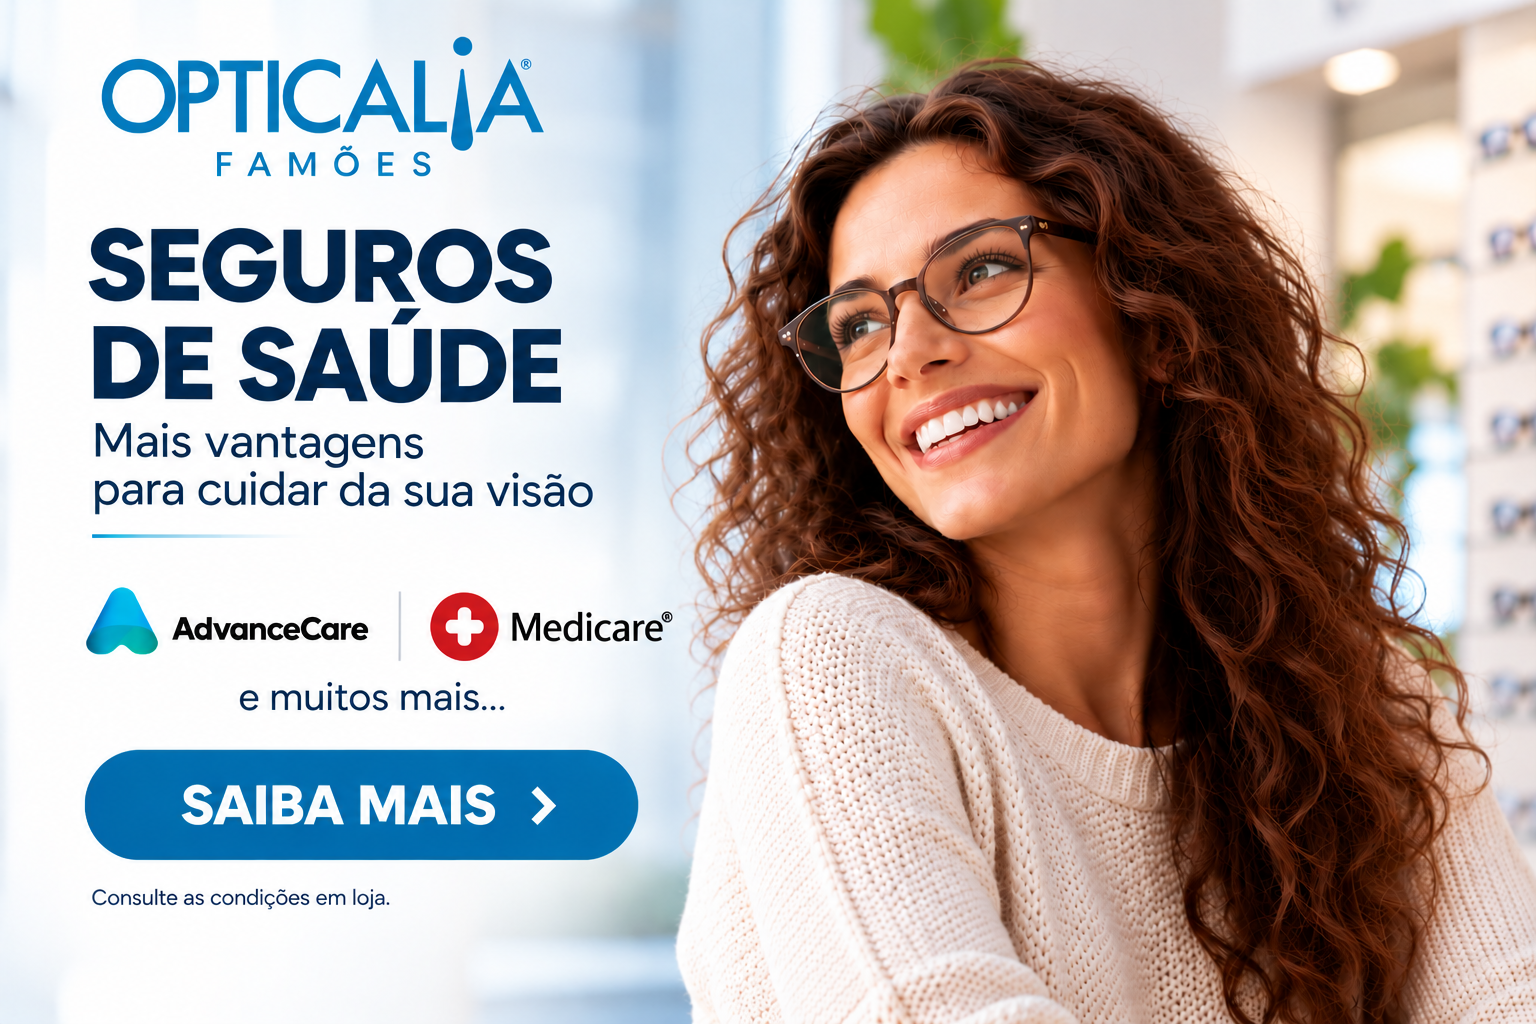
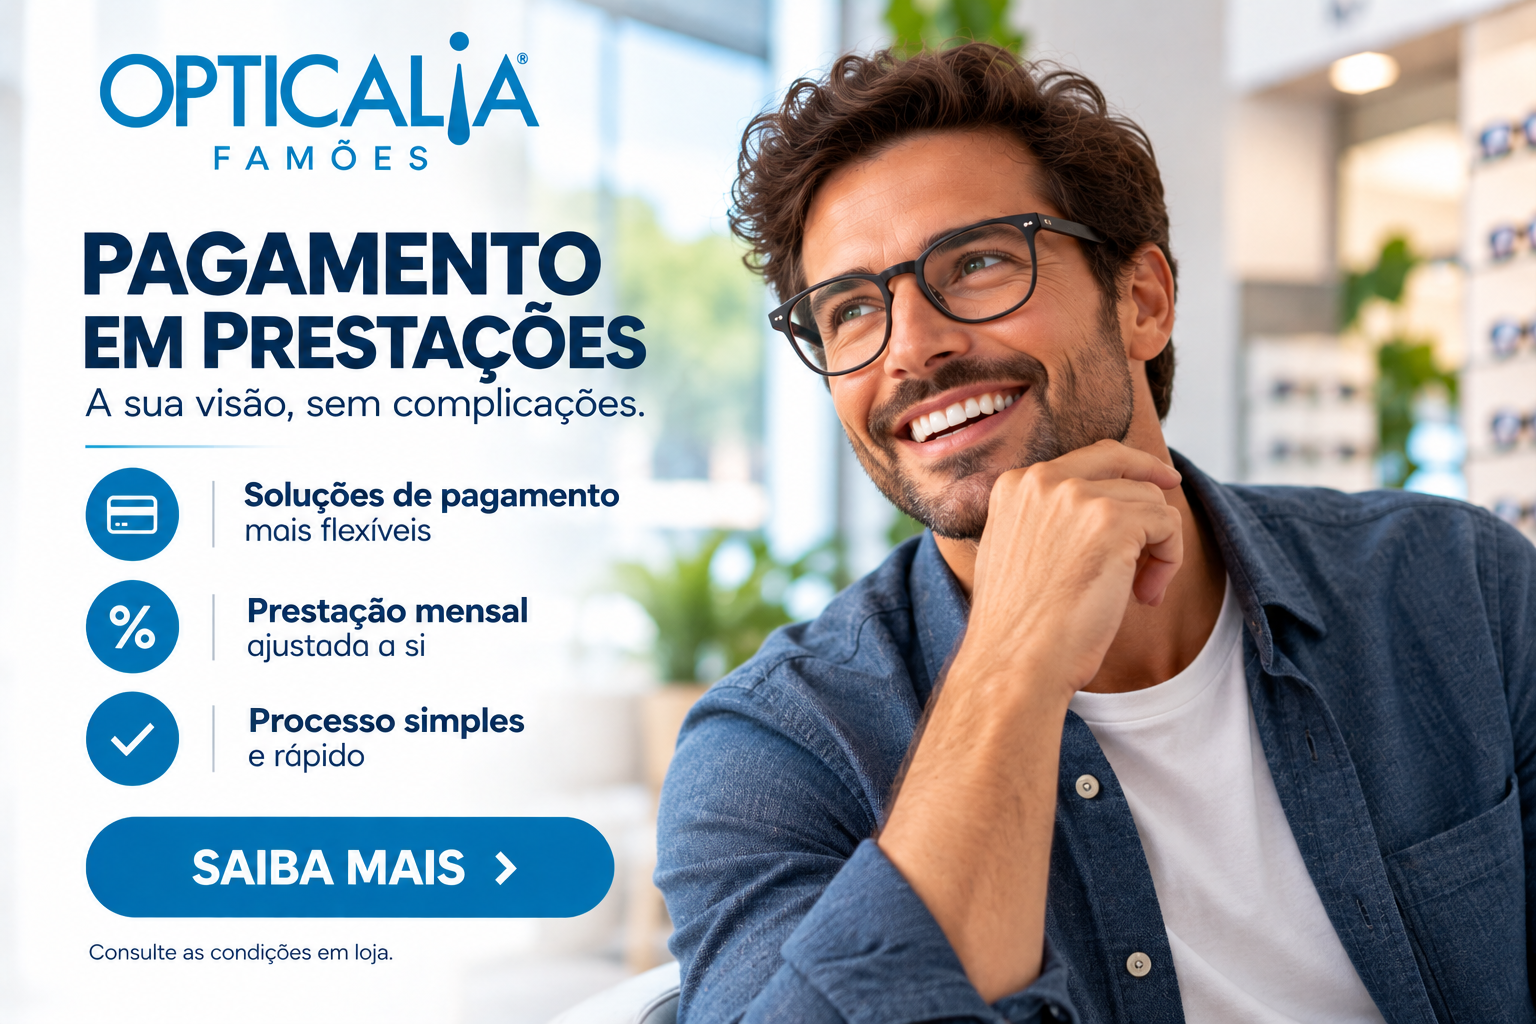
Add files via upload

diff --git a/index.html b/index.html
@@ -827,16 +827,13 @@ footer {
           <img src="promo1.png" alt="Óculos Graduados 2 por 1 - Opticalia Famões">
         </a>
       </div>
+      <div class="promo-card">
+        <img src="promo2.png" alt="Pagamento Fácil - Opticalia Famões">
+      </div>
       <div class="promo-card promo-card-link">
         <a href="#seguros">
-          <img src="promo2.png" alt="Seguros de Saúde - AdvanceCare e Medicare - Opticalia Famões">
+          <img src="promo3.png" alt="Seguros de Saúde - AdvanceCare e Medicare - Opticalia Famões">
         </a>
-      </div>
-      <div class="promo-card promo-placeholder">
-        <div class="promo-coming-soon">
-          <span>🎁</span>
-          <p>Em breve</p>
-        </div>
       </div>
     </div>
   </div>
